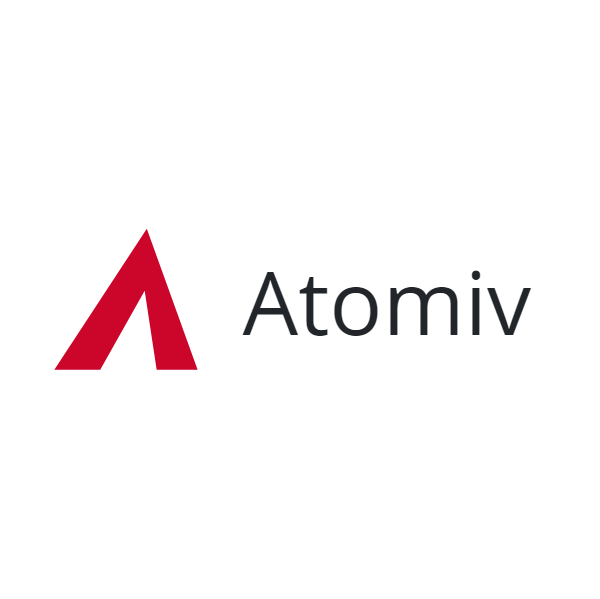
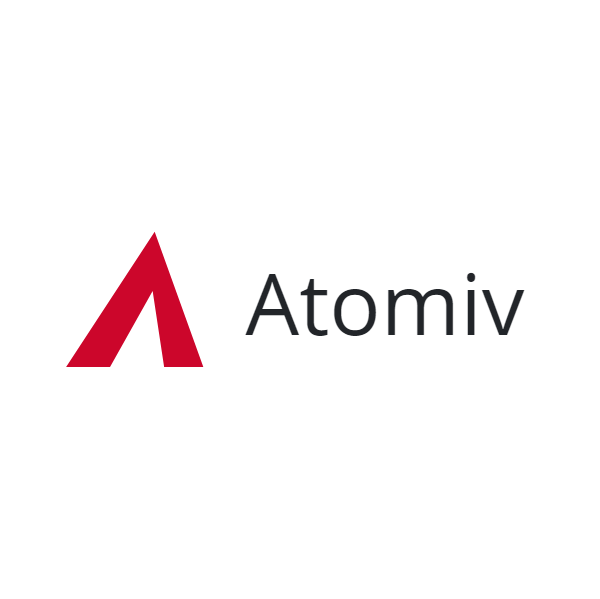
Website Image Preview OG

Changed region(s): [[0.39, 0.4508, 0.9, 0.571], [0.15, 0.3907, 0.33, 0.6311], [0.09, 0.5409, 0.18, 0.6311]]

diff --git a/_includes/meta.html b/_includes/meta.html
@@ -17,7 +17,7 @@
 <!-- https://atomiv.github.io/img/favicon.png -->
 <!-- recommended size:1200 x 1200, or 1200 x 630 .. or 560x292 -->
 <!-- share on facebook and twitter -->
-<meta property="og:image" content="https://atomiv.com/img/logo-red.png">
+<meta property="og:image" content="https://atomiv.com/img/hyperlink-preview-image.png">
 
 <!-- mobile view -->
 <!-- takes precedence over url in link preview -->
